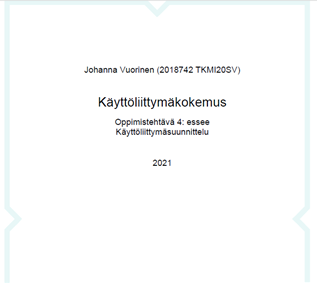
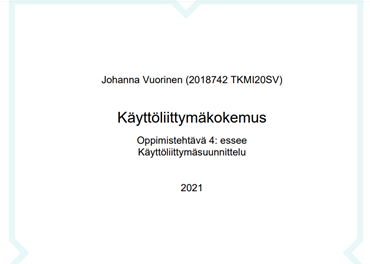
fixed responsiveness

diff --git a/ohjelmointiprojektit.html b/ohjelmointiprojektit.html
@@ -35,8 +35,8 @@
   <main>
 
     <!-- sidebar -->
-    <div class="column left">
-      <p class="content" style="background-color: rgb(240, 240, 250); margin-right: 20px;">
+    <div class="column left info">
+      <p class="content" style="background-color: #dbb0a0; margin-right: 20px; margin-top: 10px;">
         Täältä löytyy sovelluskehitykseen liittyviä projektejani, harjoitustehtäviä sekä esimerkkejä
         UI/UX-osaamisestani.
       </p>
@@ -57,7 +57,7 @@
                 Frontend-ohjelmoinnin opintojakson harjoitustyö:
                 kuvitteellisen yrityksen nettisivusto.<br />
                 Tech: W3.CSS Framework <br />
-                GitHubiin <a href="https://github.com/jxvuorinen/Otto-Ohjelmoija">tästä</a> <br />
+                GitHubiin <a href="https://github.com/jxvuorinen/Otto-Ohjelmoija" target="_blank">tästä</a> <br />
                 Avaa sivusto <a href="https://jxvuorinen.github.io/Otto-Ohjelmoija/" target="_blank">tästä</a>
               </p>
             </div>
@@ -73,7 +73,8 @@
                 Käyttöliittymäsuunnittelun opintojakson harjoitustehtävä: responsiivinen mobile first -periaatteella
                 toteutettu mallisivusto. <br />
                 Tech: HTML, CSS <br />
-                Githubiin <a href="https://github.com/jxvuorinen/responsive-page-design">tästä.</a> <br />
+                Githubiin <a href="https://github.com/jxvuorinen/responsive-page-design" target="_blank">tästä.</a>
+                <br />
                 Avaa sivusto <a href="https://jxvuorinen.github.io/responsive-page-design/" target="_blank">tästä</a>
               </p>
             </div>
@@ -89,7 +90,8 @@
                   alt="todistus" />
               </a>
               <p>
-                Full Stack Open 2020 -opintojaksosta löytyy lisätietoa <a href="https://fullstackopen.com/">täältä</a>
+                Full Stack Open -opintojaksosta löytyy lisätietoa <a href="https://fullstackopen.com/"
+                  target="_blank">täältä</a>
               </p>
             </div>
           </div>
@@ -103,7 +105,7 @@
               <p>
                 Full Stack Open 2020 -opintojakson ensimmäinen harjoitustyö: puhelinluettelo. <br />
                 Tech: React.js, Node.js, MongoDB, ESLint <br />
-                GitHubiin <a href="https://github.com/jxvuorinen/phonebook_React">tästä</a> <br />
+                GitHubiin <a href="https://github.com/jxvuorinen/phonebook_React" target="_blank">tästä</a> <br />
                 Avaa sovellus <a href="https://first-react-app-phonebook.herokuapp.com/" target="_blank">tästä</a>
               </p>
             </div>
@@ -136,7 +138,7 @@
               </video>
               <p>
                 Oma harjoitusprojekti Javalla, taustalla SQL-tietokanta. <br />
-                GitHubiin <a href="https://github.com/jxvuorinen/AsiakastyoTietokanta">tästä</a>
+                GitHubiin <a href="https://github.com/jxvuorinen/AsiakastyoTietokanta" target="_blank">tästä</a>
               </p>
             </div>
           </div>
@@ -159,7 +161,7 @@
             <div class="content">
               <h3>Mitä on käyttöliittymäsuunnittelu?</h3>
               <a href="./files/OT4_vuorinen.pdf" target="_blank">
-                <img src="./images/essee.png" alt="kuva esseen kansikuvasta" width="90%" />
+                <img src="./images/essee.png" alt="kuva esseen kansikuvasta" width="100%" />
               </a>
               <p>
                 Käyttöliittymäsuunnittelun opintojakson essee, jossa ajatuksiani ja yhteenvetoa käyttökokemuksesta,
@@ -174,8 +176,7 @@
               <p>
                 Digitaalisen muotoilun design sprintissä suunniteltu prototyyppi
                 ikäihmisille suunnatusta asiointilaitteesta päivittäisten asioiden hoitamiseen. (Linkin piilotettuun
-                videoon
-                voi pyytää vaikka sähköpostitse).
+                videoon voi pyytää vaikka sähköpostitse).
               </p>
             </div>
           </div>
@@ -185,7 +186,7 @@
               <img src="./images/lelukauppa.png" alt="kuva sivuston protoyypistä mobiilinäkymässä" width="100%" />
               <p>
                 Framerilla toteutettu prototyyppi lelukaupan käyttöliittymälle. <br />Protoa pääsee testaamaan
-                <a href="https://framer.com/share/Lelukauppa--pnA9UhewWjoDoYNHpHXe/b4m2PIeWW">täällä.</a>
+                <a href="https://framer.com/share/Lelukauppa--pnA9UhewWjoDoYNHpHXe/b4m2PIeWW" target="_blank">täällä.</a>
               </p>
             </div>
           </div>
@@ -224,7 +225,8 @@
               </a>
               <p>
                 Kuvaamani, editoimani ja leikkaamani videoinsertti.<br />
-                Tech: Adobe Premiere Pro
+                Tech: Adobe Premiere Pro <br />
+                Linkki YouTubeen <a href="https://www.youtube.com/watch?v=Pjg4DhAOfug" target="_blank">tässä</a>
               </p>
             </div>
           </div>
@@ -252,7 +254,7 @@
   <!-- Footer -->
 
   <footer class="footer">
-    <p>&copy;Johanna Vuorinen 2020</p>
+    <p>&copy;Johanna Vuorinen 2021</p>
     <p>
       <a href="mailto:jxvuorinen@gmail.com" target="_blank"><i class="glyphicon glyphicon-envelope"></i></a>
       <a href="https://github.com/jxvuorinen" target="_blank"><i class="glyphicon glyphicon-globe"></i></a>

diff --git a/styles.css b/styles.css
@@ -147,7 +147,7 @@ video {
 
 .title {
   color: rgba(0, 0, 0, 0.726);
-  font-size: 18px;
+  font-size: 16px;
 }
 
 .intro {
@@ -262,11 +262,11 @@ caption {
 }
 
 hr {
-  width: 90%;
+  width: 100%;
 }
 
 .project-row {
-  background-color: #f1f1f1;
+  background-color: #eab586;
   margin: 8px -16px;
   padding-top: 10px;
   box-shadow: 0 4px 8px 0 rgba(0, 0, 0, 0.2);
@@ -467,22 +467,14 @@ input[type="submit"]:hover {
     width: 100%;
   }
 
-  .sidebar a {
-    font-size: 12px;
+  .infocard-container h2 {
+    font-size: 18px;
   }
 }
 
-@media only screen and (max-width: 460px) {
+@media only screen and (max-width: 760px) {
   video {
     max-width: 100%;
-  }
-
-  .left {
-    width: fit-content;
-  }
-
-  .right {
-    width: fit-content;
   }
 
   .header-text h1 {
@@ -492,34 +484,40 @@ input[type="submit"]:hover {
   .sidebar {
     visibility: hidden;
   }
-
-  .intro h2 {
-    font-size: 20px;
-  }
 }
 
-@media screen and (max-width: 650px) {
+@media only screen and (max-width: 1000px) {
   .sidebar {
     width: 100%;
     height: auto;
     top: 80px;
   }
 
-  .sidebar a {
-    font-size: 10px;
-    letter-spacing: normal;
-    padding-left: 3px;
-    margin-right: 3px;
+  .info {
+    width: fit-content;
+    text-align: center;
   }
 
-  .title {
-    font-size: 12px;
+  .right {
+    width: fit-content;
+  }
+
+  .left {
+    width: fit-content;
+  }
+
+  .infocard-container h2 {
+    font-size: 30px;
+  }
+  
+  .infocard-container .title {
+    font-size: 26px;
   }
 
   #trainees td,
   th {
     text-align: left;
-    font-size: 8px;
+    font-size: 14px;
     padding-right: 5px;
   }
 

diff --git a/erityisosaaminen.html b/erityisosaaminen.html
@@ -35,8 +35,8 @@
     <!-- Page content -->
     <main>
       <!-- sidebar -->
-      <div class="column left">
-        <p class="content" style="background-color: rgb(240, 240, 250); margin-right: 20px;">
+      <div class="column left info">
+        <p class="content" style="background-color: #dbb0a0; margin-right: 20px; margin-top: 10px;">
           Täältä löytyy palvelumuotoiluun ja sosiaalialan kehittämiseen liittyviä projektejani.
         </p>
       </div>
@@ -78,7 +78,7 @@
             <div class="project-column">
               <div class="content">
                 <h3>GeroMetro-verkosto</h3>
-                  <img src="./images/posteri.png" style="width: 100%; height: 55%;" alt="posteri"></a>
+                  <a href="/images/posteri.png" target="_blank"><img src="./images/posteri.png" style="width: 100%" alt="posteri"></a>
                 <p>Koordinoin GeroMetro-verkoston kehittämisryhmäämme. 
                   Kehittämisteemana oli ikääntyneiden asiakkaiden itsemääräämisoikeuden 
                   kunnioittaminen ja vahvistaminen. Lisätietoja tuotoksistamme ja verkostosta 
@@ -104,7 +104,7 @@
     <!-- Footer -->
 
     <footer class="footer">
-      <p>&copy;Johanna Vuorinen 2020</p>
+      <p>&copy;Johanna Vuorinen 2021</p>
       <p>
       <a href="mailto:jxvuorinen@gmail.com" target="_blank"><i class="glyphicon glyphicon-envelope"></i></a>
       <a href="https://github.com/jxvuorinen" target="_blank"><i class="glyphicon glyphicon-globe"></i></a>

diff --git a/yhteys.html b/yhteys.html
@@ -16,7 +16,7 @@
       <div class="topmenu">
         <a href="./index.html"> <i class="glyphicon glyphicon-home"></i> MINÄ</a>
         <a href="./ohjelmointiprojektit.html">
-          <i class="glyphicon glyphicon-th-large"></i> OHJELMOINTIPROJEKTIT</a
+          <i class="glyphicon glyphicon-th-large"></i> SOVELLUSKEHITYS</a
         >
         <a href="./erityisosaaminen.html">
           <i class="glyphicon glyphicon-star"></i> ERITYISOSAAMINEN</a
@@ -112,7 +112,7 @@
     <!-- Footer -->
 
     <footer class="footer">
-      <p>&copy;Johanna Vuorinen 2020</p>
+      <p>&copy;Johanna Vuorinen 2021</p>
       <p>
         <a href="mailto:jxvuorinen@gmail.com" target="_blank"
           ><i class="glyphicon glyphicon-envelope"></i

diff --git a/index.html b/index.html
@@ -254,7 +254,7 @@
     <!-- Footer -->
 
     <footer class="footer">
-      <p>&copy;Johanna Vuorinen 2020</p>
+      <p>&copy;Johanna Vuorinen 2021</p>
       <p>
       <a href="mailto:jxvuorinen@gmail.com" target="_blank"><i class="glyphicon glyphicon-envelope"></i></a>
       <a href="https://github.com/jxvuorinen" target="_blank"><i class="glyphicon glyphicon-globe"></i></a>
